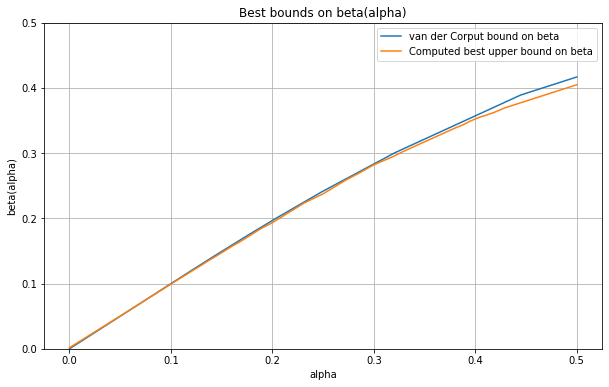
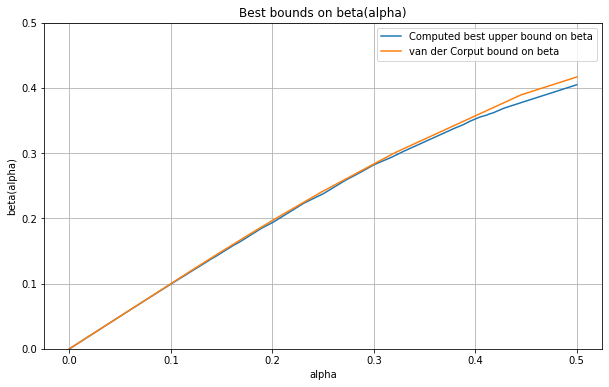
Bug fix in classical beta bound constructor

diff --git a/blueprint/src/python/visualizations.py b/blueprint/src/python/visualizations.py
@@ -95,7 +95,7 @@ def van_der_corput_plot2():
 
 def beta_bound_plot():
     hypotheses = Hypothesis_Set()  # Start with an empty hypothesis set
-
+    hypotheses.add_hypothesis(trivial_beta_bound_1)
     hypotheses.add_hypotheses(
         literature.list_hypotheses(hypothesis_type="Upper bound on beta")
     )
@@ -104,16 +104,16 @@ def beta_bound_plot():
     alpha_range = np.linspace(0, 1/2, 500)
     plt.figure(figsize=(10, 6))
     plt.plot(
-        alpha_range,
-        [optimized_van_der_corput(alpha) for alpha in alpha_range],
-        label=f"van der Corput bound on beta",
-    )
-    plt.plot(
         alpha_range, 
         [min(b.data.bound.at(alpha) for b in best_beta_bounds 
              if b.data.bound.domain.contains(alpha))
              for alpha in alpha_range], 
         label=f"Computed best upper bound on beta"
+    )
+    plt.plot(
+        alpha_range,
+        [optimized_van_der_corput(alpha) for alpha in alpha_range],
+        label=f"van der Corput bound on beta",
     )
     plt.xlabel("alpha")
     plt.ylabel("beta(alpha)")
@@ -122,6 +122,11 @@ def beta_bound_plot():
     plt.grid(True)
     plt.ylim(0, 1/2)
     plt.show()
+    
+    for b in best_beta_bounds:
+        print(b.data)
+    print(min(b.data.bound.at(0) for b in best_beta_bounds 
+             if b.data.bound.domain.contains(0)))
     
 #van_der_corput_plot2()
 beta_bound_plot()

diff --git a/blueprint/src/python/bound_beta.py b/blueprint/src/python/bound_beta.py
@@ -71,7 +71,7 @@ def classical_bound_beta(bound):
     return Hypothesis(
         f"Classical bound on \\beta",
         "Upper bound on beta",
-        bound,
+        Bound_beta(bound),
         f"Classical",
         Reference.classical(),
     )
